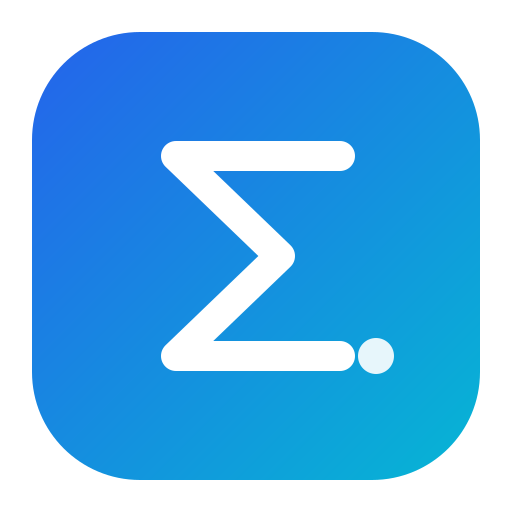
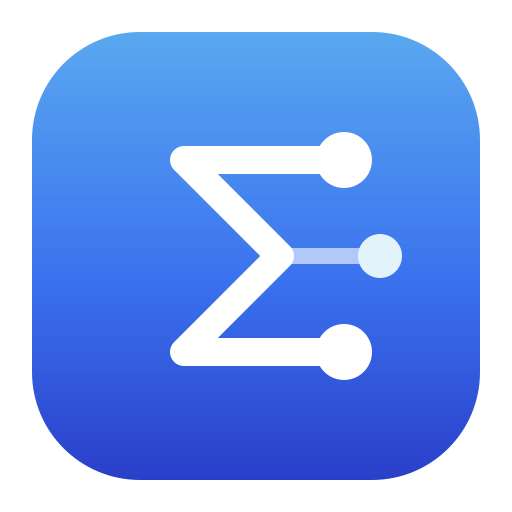
feat(brand): nuova icona con la sigma ramificata

diff --git a/docs/RELEASE.md b/docs/RELEASE.md
@@ -35,8 +35,17 @@ allineati a ogni release.
 | Web app (build Vite) | `apps/web/dist/` | no (usata da Electron) |
 | Processo Electron compilato | `apps/desktop/dist/` | no |
 
-Al momento non esiste uno script che produca un pacchetto installabile
-(AppImage, deb o simili): `pnpm build:desktop` compila solo il processo
-Electron. Per distribuire un pacchetto occorre aggiungere un packager
-(ad esempio `electron-builder`) e dichiarare l'estensione `.xmind` per la
-piattaforma scelta. `dist/` è in `.gitignore`.
+## Pacchetto Arch Linux
+
+[`packaging/arch/PKGBUILD`](../packaging/arch/PKGBUILD) costruisce un pacchetto
+pacman dall'ultimo commit del branch corrente e lo installa:
+
+```bash
+cd packaging/arch && makepkg -si
+```
+
+Usa l'Electron di sistema (`electron43`), installa l'app in
+`/usr/lib/xmap-studio`, il comando `xmap-studio`, la voce di menu, le icone
+`hicolor` e il tipo MIME `application/xmind`. Le modifiche non committate non
+entrano nel pacchetto. Non esistono ancora pacchetti per altre distribuzioni.
+`dist/` è in `.gitignore`.
